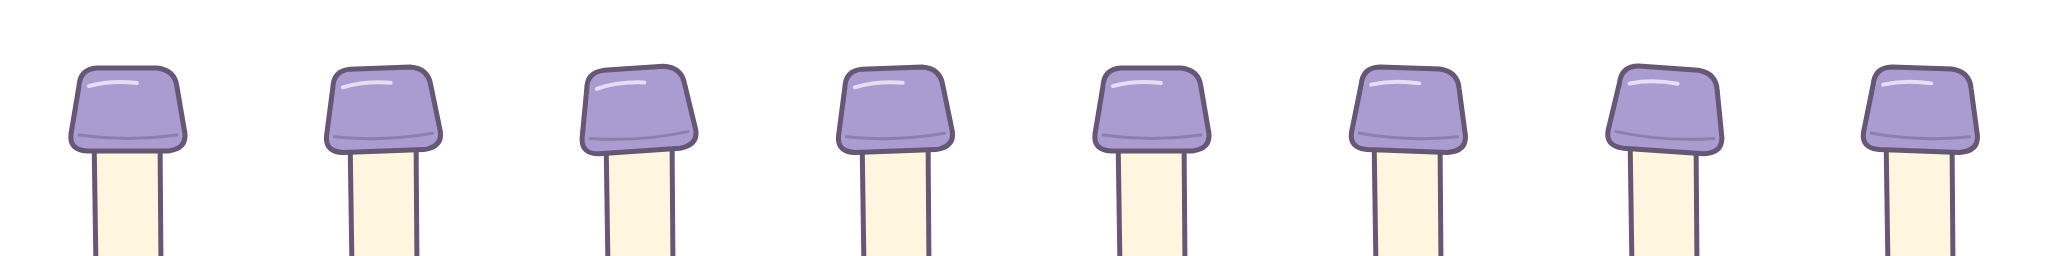
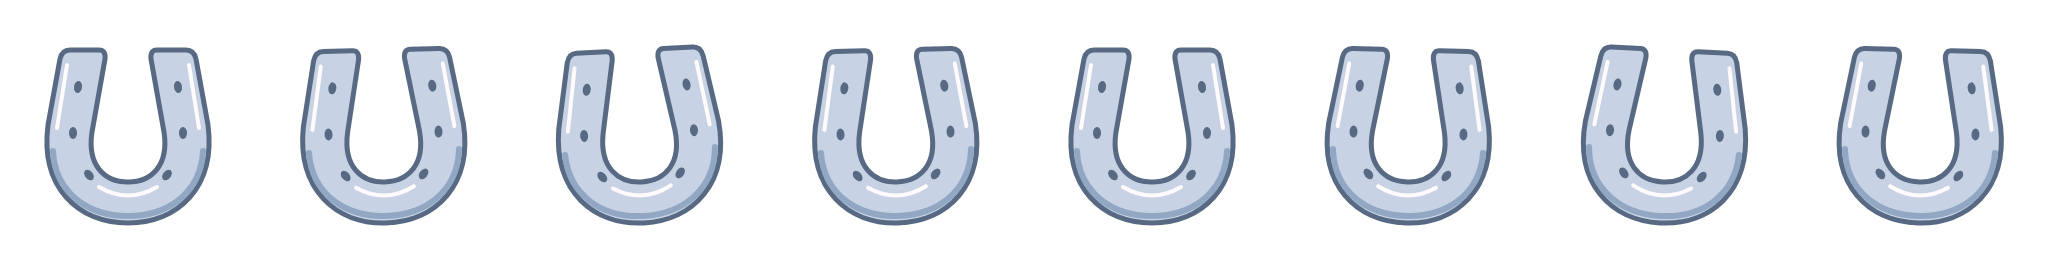
fix(characters): use U-shaped horseshoes for pony recall

diff --git a/artwork/mobility.py b/artwork/mobility.py
@@ -18,10 +18,17 @@ def peek(kind, frame):
     if kind == 'dogegg':
         # White mitten and pink pads from Dogegg's wave pose, disappearing into the edge.
         return '<g stroke-linejoin="round">'+path('M93 268L87 151Q87 122 126 120Q163 120 164 152L170 268Z','#29282e','#383442',5)+f'<g transform="rotate({sin(phase)*5} 128 188)">'+path('M65 121C59 80 76 43 104 48Q117 25 136 47Q161 32 177 60Q200 71 193 111L189 147Q176 183 128 185Q79 181 69 151Z','#fffdf1','#383442',5)+path('M105 137Q87 119 110 104Q126 77 146 105Q172 120 152 139Q141 155 127 147Q115 155 105 137Z','#ffadb8','none')+''.join(f'<ellipse cx="{x}" cy="{y}" rx="10" ry="14" fill="#ffadb8"/>' for x,y in [(88,88),(115,68),(145,69),(171,91)])+'</g></g>'
-    hoof = '#bca7e5' if kind == 'boniu' else '#aa9bd1'
-    angle = [0, -2, -4, -2, 0, 2, 4, 2][frame]
-    # One solid equine hoof; no paw pads, split toes or detached tail.
-    return '<g stroke-linecap="round" stroke-linejoin="round">'+path('M96 270L94 133Q126 118 160 133L161 270Z','#fff6df',INK,5)+f'<g transform="rotate({angle} 128 149)">'+path('M79 86Q80 69 97 68L157 68Q175 70 177 87L185 134Q186 149 168 151L87 151Q69 150 71 134Z',hoof,INK,5)+path('M89 86Q111 80 137 83','none','#e8ddf5',4)+path('M79 135Q128 142 177 135','none','#8e7fa9',3)+'</g></g>'
+    # Open U-shaped horseshoe viewed from underneath; the center stays transparent.
+    metal = '#d9c9ed' if kind == 'boniu' else '#c7d3e4'
+    outline = '#756184' if kind == 'boniu' else '#586a83'
+    shadow = '#ad96c7' if kind == 'boniu' else '#91a7c4'
+    angle = [0, -1.5, -3, -1.5, 0, 1.5, 3, 1.5][frame]
+    shoe = path('M70 50Q62 50 60 59L48 125C40 187 78 223 128 223C178 223 216 187 208 125L196 59Q194 50 186 50H157Q150 50 151 59L164 132C169 165 152 182 128 182C104 182 87 165 92 132L105 59Q106 50 99 50Z', metal, outline, 5)
+    bevel = path('M53 151C55 192 87 216 128 216C169 216 201 192 203 151', 'none', shadow, 6)
+    shine = path('M67 65L57 128M189 65L199 128M99 187Q128 204 157 187', 'none', '#fffafc', 4)
+    nails = ''.join(f'<ellipse cx="{x}" cy="{y}" rx="4" ry="6" transform="rotate({tilt} {x} {y})" fill="{outline}"/>' for x,y,tilt in [(78,87,9),(73,133,0),(89,175,-38),(178,87,-9),(183,133,0),(167,175,38)])
+    return f'<g transform="rotate({angle} 128 151)">{shoe}{bevel}{shine}{nails}</g>'
+
 
 
 def generate(root):
